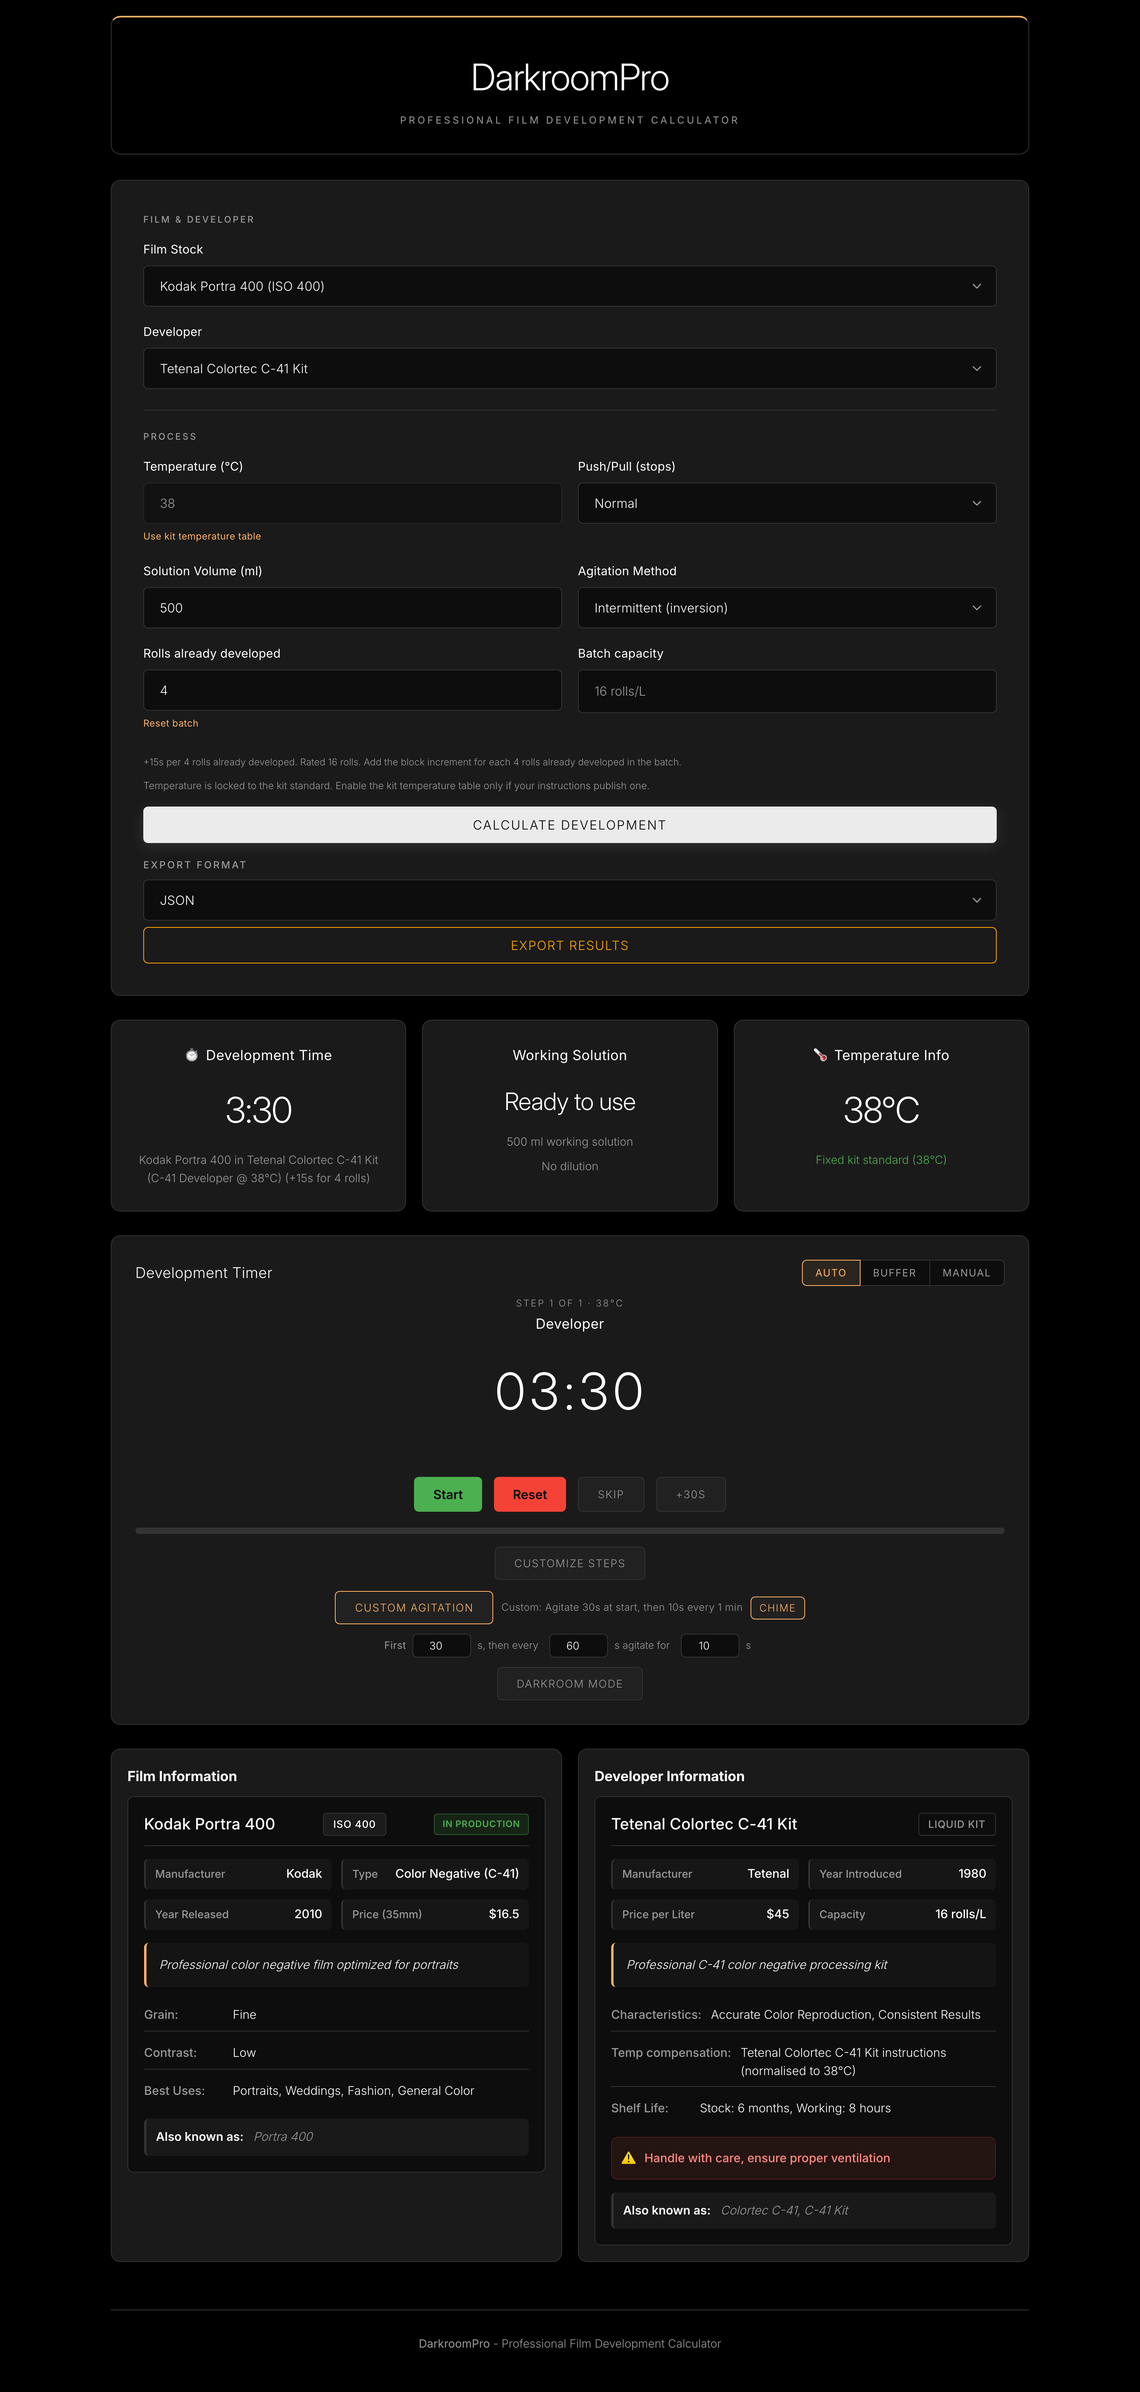
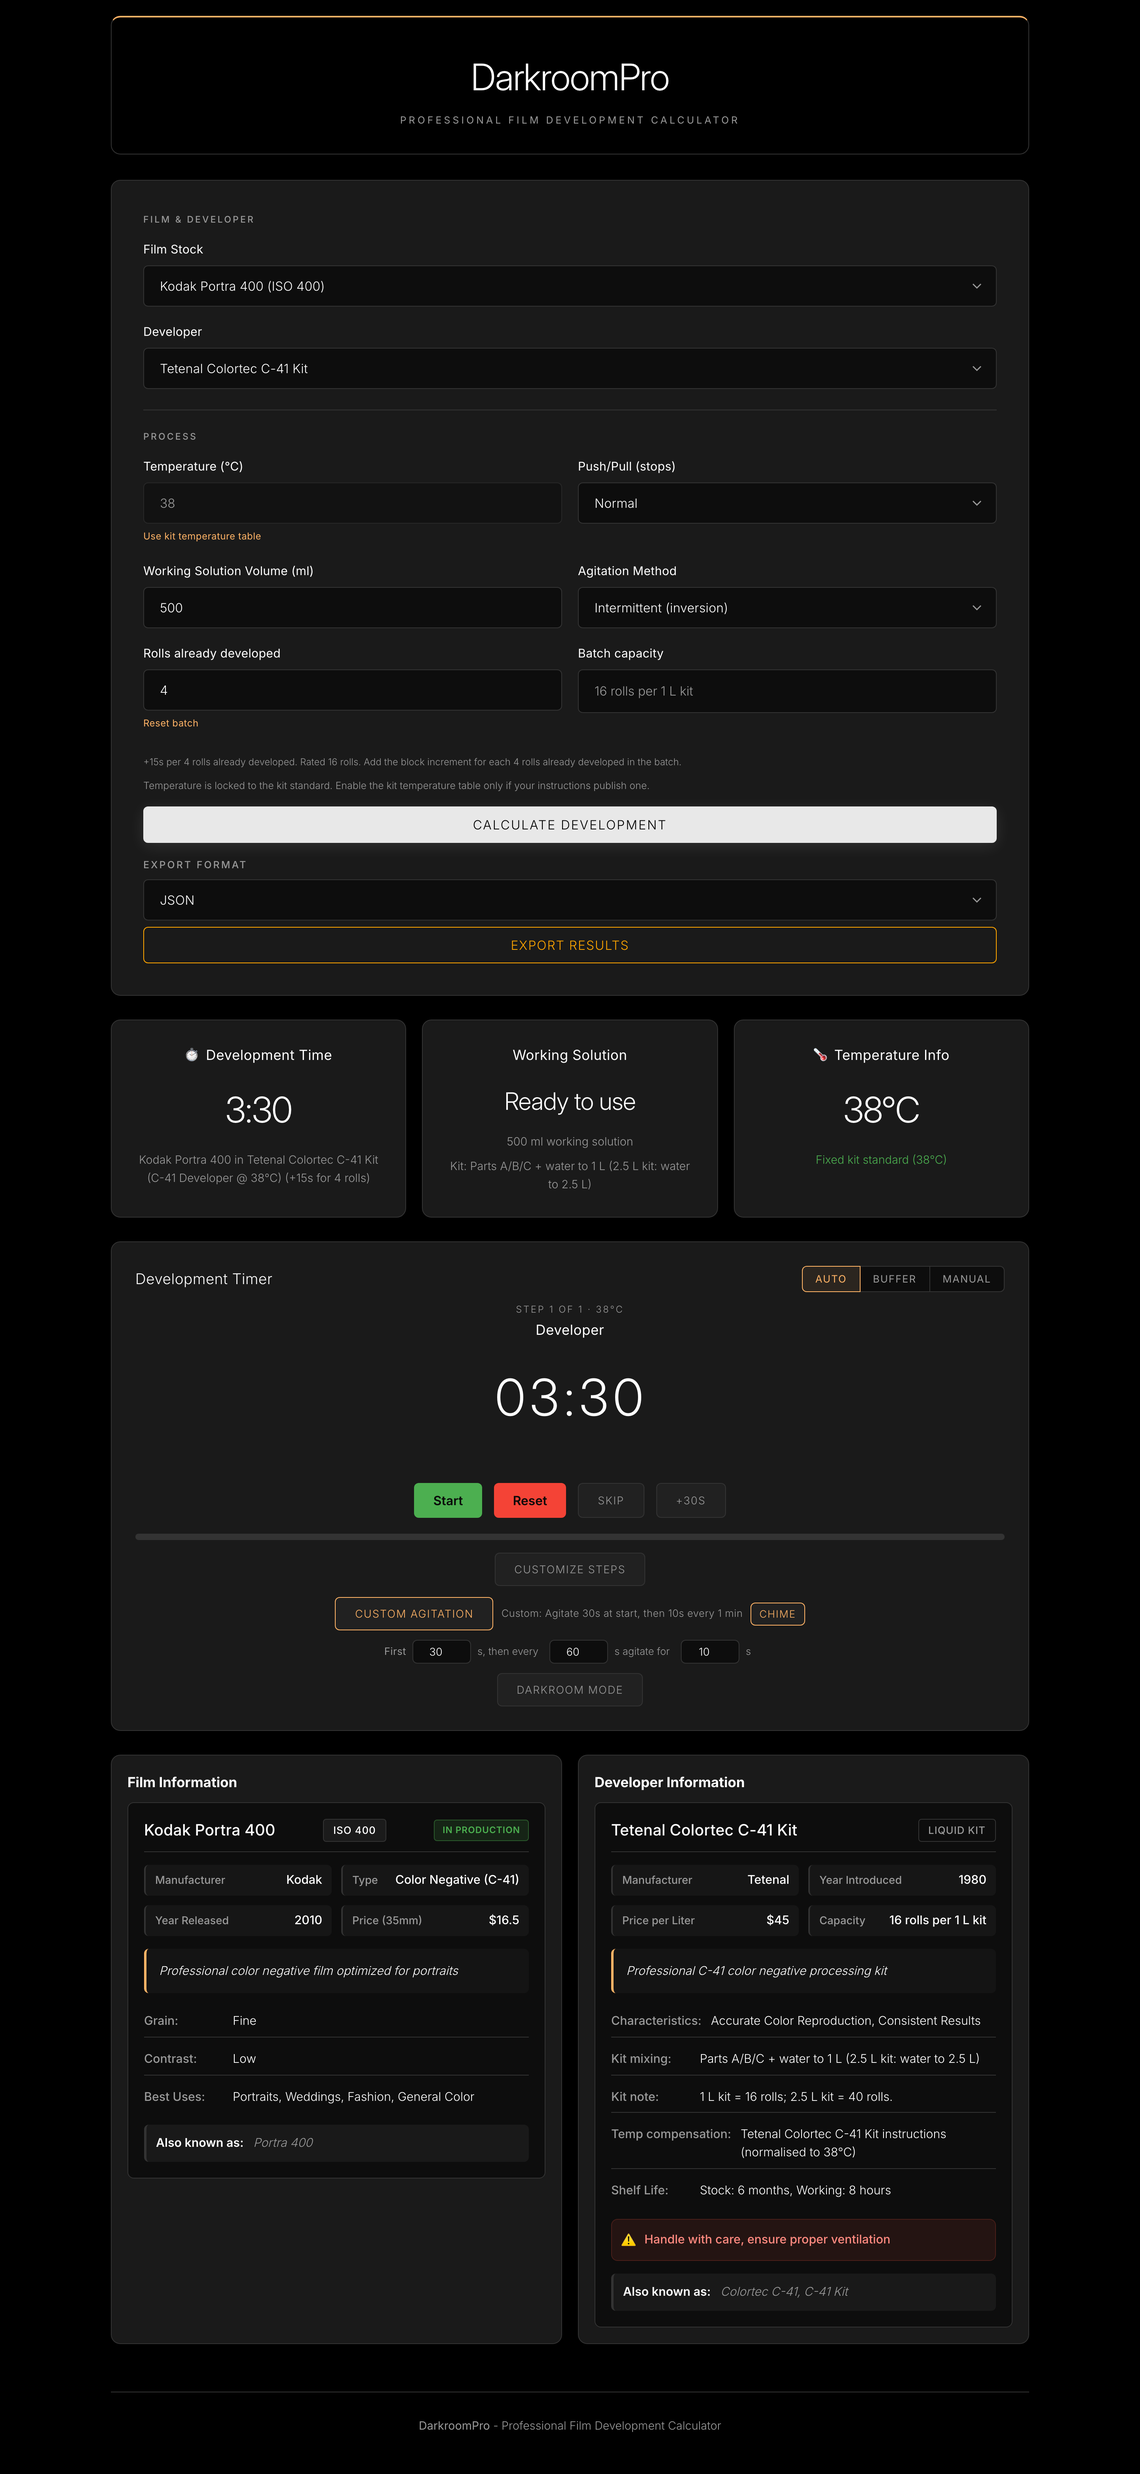
Release 1.3.2: kit mixing, capacity and agitation chime fixes
- Colour kits now show actual mixing and capacity (Bellini 500 ml + 500 ml = 1 L, 16 rolls)
- Flexicolor capacity corrected to 20 rolls per 2.5 L one-shot
- Working Solution Volume label clarifies tank volume vs kit batch
- Agitation ticks every 1.5s with a distinct two-tone stop cue; no overlapping sequences
- Kodak E-6 +2 push corrected to 11:30 rotary / 11:45 manual
- New screenshots and release notes

Changed region(s): [[0.0938, 0.0311, 0.9062, 0.9341], [0.5, 0.1868, 0.5938, 0.2802], [0.5625, 0.6227, 0.7188, 0.6539]]

diff --git a/calculator.js b/calculator.js
@@ -455,6 +455,10 @@ class DevelopmentCalculator {
                     return ratioValue(a) - ratioValue(b);
                 })
             : [];
+        const kit = developer.kit_mixing;
+        const capacityValue = kit
+            ? `${kit.capacity_rolls} rolls per ${kit.volume_ml / 1000} L kit`
+            : `${developer.capacity_rolls_per_liter || 'N/A'} rolls/L`;
         this.developerDetailsElement.innerHTML = `
             <div class="info-card-content">
                 <div class="info-header">
@@ -477,7 +481,7 @@ class DevelopmentCalculator {
                     </div>
                     <div class="info-item">
                         <span class="label">Capacity</span>
-                        <span class="value">${developer.capacity_rolls_per_liter || 'N/A'} rolls/L</span>
+                        <span class="value">${capacityValue}</span>
                     </div>
                 </div>
                 
@@ -490,6 +494,13 @@ class DevelopmentCalculator {
                         <span class="char-label">Characteristics:</span>
                         <span class="char-value">${cleanText(developer.characteristics) || 'N/A'}</span>
                     </div>
+                    ${kit ? `
+                        <div class="char-item">
+                            <span class="char-label">Kit mixing:</span>
+                            <span class="char-value">${kit.instructions}</span>
+                        </div>
+                        ${kit.note ? `<div class="char-item"><span class="char-label">Kit note:</span><span class="char-value">${kit.note}</span></div>` : ''}
+                    ` : ''}
                     ${dilutionList.length > 0 ? `
                         <div class="char-item">
                             <span class="char-label">Dilutions:</span>
@@ -785,8 +796,11 @@ class DevelopmentCalculator {
         this.rollsInput.max = String(rule ? Math.max(0, (rule.max_rolls || 30) - 1) : 0);
         this.rollsInput.value = String(this.rollsDeveloped);
         this.rollsReset.style.display = supported && this.rollsDeveloped > 0 ? 'inline-block' : 'none';
+        const kit = developer && developer.kit_mixing;
         if (rule && rule.rated_rolls && rule.max_rolls && rule.rated_rolls !== rule.max_rolls) {
             this.batchCapacity.textContent = `${rule.rated_rolls} rated, ${rule.max_rolls} max per L`;
+        } else if (kit) {
+            this.batchCapacity.textContent = `${kit.capacity_rolls} rolls per ${kit.volume_ml / 1000} L kit`;
         } else {
             this.batchCapacity.textContent = developer && developer.capacity_rolls_per_liter
                 ? `${developer.capacity_rolls_per_liter} rolls/L`
@@ -1248,8 +1262,12 @@ class DevelopmentCalculator {
             this.developerAmountElement.textContent = `${results.developerAmount} ml developer`;
             this.waterAmountElement.textContent = `${results.waterAmount} ml water`;
         } else {
+            const developerInfo = resolveDeveloper(this.developerSelect.value);
+            const kit = developerInfo && developerInfo.kit_mixing;
             this.developerAmountElement.textContent = `${results.developerAmount} ml working solution`;
-            this.waterAmountElement.textContent = 'No dilution';
+            this.waterAmountElement.textContent = kit
+                ? `Kit: ${kit.instructions}`
+                : 'No dilution';
         }
         
         // Add animation to updated cards

diff --git a/timer.js b/timer.js
@@ -304,7 +304,11 @@ class DevelopmentTimer {
                 this.agitationSummary.textContent = 'Rotary/continuous — no agitation cues';
             } else if (agitation) {
                 const prefix = this.customAgitation ? 'Custom: ' : 'Preset: ';
-                this.agitationSummary.textContent = `${prefix}${window.processSteps.describeAgitation(agitation)}`;
+                if (this.customAgitation && this.agitationDuration >= this.agitationEvery) {
+                    this.agitationSummary.textContent = 'Custom: continuous agitation (no gap between cues)';
+                } else {
+                    this.agitationSummary.textContent = `${prefix}${window.processSteps.describeAgitation(agitation)}`;
+                }
             } else {
                 this.agitationSummary.textContent = 'No agitation schedule for this step';
             }
@@ -438,14 +442,23 @@ class DevelopmentTimer {
 
         const duration = this.currentStepDuration();
         const elapsed = Math.max(0, duration - this.remaining);
+        const previousCue = this.activeCue;
         const nextCue = this.cues.find(cue => elapsed >= cue.startSeconds && elapsed < cue.startSeconds + cue.durationSeconds) || null;
 
-        if (nextCue && (!this.activeCue || nextCue.startSeconds !== this.activeCue.startSeconds)) {
+        if (nextCue && (!previousCue || nextCue.startSeconds !== previousCue.startSeconds)) {
+            const contiguous = previousCue &&
+                nextCue.startSeconds === previousCue.startSeconds + previousCue.durationSeconds;
             if (this.darkroom.chimes) {
+                if (previousCue && !contiguous) {
+                    this.playSound('agitationEnd');
+                }
                 this.startAgitationChime(nextCue.durationSeconds);
             }
-        } else if (!nextCue && this.activeCue) {
+        } else if (!nextCue && previousCue) {
             this.stopAgitationChime();
+            if (this.darkroom.chimes) {
+                this.playSound('agitationEnd');
+            }
         }
 
         this.activeCue = nextCue;
@@ -1178,6 +1191,7 @@ class DevelopmentTimer {
             warning: 1000,
             step: 950,
             lowstep: 700,
+            agitationEnd: 560,
             complete: 1200
         };
 
@@ -1186,7 +1200,8 @@ class DevelopmentTimer {
         this.stopAgitationChime();
         this.cancelScheduledSounds();
 
-        if (!this.beep(frequencies[type] || 800)) {
+        const gain = type === 'agitationEnd' ? 0.06 : 0.09;
+        if (!this.beep(frequencies[type] || 800, gain, type === 'agitationEnd' ? 0.16 : 0.18)) {
             console.log(`Timer ${type} sound`);
             return;
         }
@@ -1194,6 +1209,8 @@ class DevelopmentTimer {
 
         if (type === 'step') {
             this.scheduleBeep(frequencies.lowstep, 220);
+        } else if (type === 'agitationEnd') {
+            this.scheduleBeep(420, 180, 0.055, 0.16);
         } else if (type === 'complete') {
             this.scheduleBeep(frequencies.warning, 300);
             this.scheduleBeep(frequencies.warning, 600);
@@ -1248,7 +1265,7 @@ class DevelopmentTimer {
 
         const seq = this.agitationSeq;
         const durationMs = durationSeconds * 1000;
-        const interval = 2500;
+        const interval = 1500;
         const firstDelay = Date.now() - this.lastSoundAt < 700 ? 1200 : 700;
         let elapsed = 0;
 

diff --git a/index.html b/index.html
@@ -4,7 +4,7 @@
     <meta charset="UTF-8">
     <meta name="viewport" content="width=device-width, initial-scale=1.0">
     <link rel="preload" href="/fonts/InterVariable.woff2" as="font" type="font/woff2" crossorigin>
-    <title>DarkroomPro v1.3.1 - Professional Film Development Calculator</title>
+    <title>DarkroomPro v1.3.2 - Professional Film Development Calculator</title>
     <link rel="stylesheet" href="styles.css">
 </head>
 <body>
@@ -57,8 +57,8 @@
 
                     <div class="input-row">
                         <div class="input-group">
-                            <label for="volume">Solution Volume (ml)</label>
-                            <input type="number" id="volume" value="500" min="100" max="2000" step="50">
+                            <label for="volume">Working Solution Volume (ml)</label>
+                            <input type="number" id="volume" value="500" min="100" max="2000" step="50" title="Volume of mixed working solution needed for your tank — not the kit's total batch size">
                         </div>
 
                         <div class="input-group">

diff --git a/src-tauri/src/database.rs b/src-tauri/src/database.rs
@@ -149,6 +149,40 @@ mod tests {
     }
 
     #[test]
+    fn color_kits_have_mixing_data() {
+        let database = load_bundled_database();
+
+        for key in [
+            "bellini_c41_kit",
+            "cinestill_c41_kit",
+            "unicolor_c41_kit",
+            "tetenal_c41_kit",
+            "kodak_flexicolor_c41",
+            "kodak_e6_kit",
+            "tetenal_e6_kit",
+            "unicolor_e6_kit",
+        ] {
+            let developer = database.developers.get(key)
+                .unwrap_or_else(|| panic!("missing developer {}", key));
+            let kit = developer.kit_mixing.as_ref()
+                .unwrap_or_else(|| panic!("missing kit mixing for {}", key));
+            assert!(kit.get("volume_ml").and_then(|v| v.as_u64()).is_some_and(|v| v > 0), "{} bad volume", key);
+            assert!(kit.get("capacity_rolls").and_then(|v| v.as_u64()).is_some_and(|v| v > 0), "{} bad capacity", key);
+            assert!(
+                kit.get("instructions").and_then(|v| v.as_str()).is_some_and(|s| !s.is_empty()),
+                "{} missing mixing instructions",
+                key
+            );
+        }
+
+        let bellini = database.developers.get("bellini_c41_kit").unwrap();
+        let kit = bellini.kit_mixing.as_ref().unwrap();
+        assert_eq!(kit.get("volume_ml").and_then(|v| v.as_u64()), Some(1000));
+        assert_eq!(kit.get("capacity_rolls").and_then(|v| v.as_u64()), Some(16));
+        assert!(kit.get("instructions").and_then(|v| v.as_str()).unwrap().contains("500 ml concentrate"));
+    }
+
+    #[test]
     fn e6_agitation_adjustments_are_documented() {
         let database = load_bundled_database();
 

diff --git a/src-tauri/src/models.rs b/src-tauri/src/models.rs
@@ -71,6 +71,8 @@ pub struct Developer {
     pub roll_compensation: Option<serde_json::Value>,
     #[serde(default)]
     pub agitation_adjustment: Option<serde_json::Value>,
+    #[serde(default)]
+    pub kit_mixing: Option<serde_json::Value>,
 }
 
 #[derive(Debug, Clone, Serialize, Deserialize, Default)]

diff --git a/README.md b/README.md
@@ -16,12 +16,13 @@ A professional desktop application for calculating **precise film development pa
 
 *Darkroom mode's fullscreen focus display, toggled with <kbd>F</kbd> or the Auto Fullscreen option.*
 
-## 🆕 What's new in 1.3.1
+## 🆕 What's new in 1.3.2
 
-- **Adjustable B&W rotary compensation**: 0–35% (15% default), with guidance that 15–35% may be needed depending on film/developer and that pre-wetting or a diffusion enlarger can need less.
-- **E-6 method-specific first developer**: Kodak and Tetenal E-6 now apply the published manual/rotary difference (+15s manual, rotary time as published), including push/pull times.
-- **Clearer stock labels**: developer info and dilution selectors now say “Stock” instead of “1:0”.
-- Includes all 1.3.0 features: custom agitation, batch reuse compensation, colour temperature lock, UI refresh and darkroom-mode behaviour.
+- **Kit mixing and capacities**: every colour kit now shows its actual kit mixing and capacity, including Bellini C41-RA (500 ml concentrate + 500 ml water = 1 L, 16 rolls) and Kodak Flexicolor (2.5 L, 20 rolls one-shot). The dilution card also shows the kit mixing instead of “No dilution”.
+- **Clearer volume label**: “Working Solution Volume (ml)” makes it explicit that this is the amount needed for your tank, not the kit’s batch size.
+- **Better agitation chimes**: ticks now repeat every 1.5s, and a distinct two-tone stop cue plays when the agitation window ends. The scheduler ensures only one sequence plays at a time.
+- **Kodak E-6 +2 push corrected** to 11:30 rotary / 11:45 manual (+5:30 per Kodak Z-119).
+- Includes 1.3.1’s adjustable B&W rotary compensation and E-6 method-specific timing.
 
 See [RELEASE_NOTES.md](RELEASE_NOTES.md) for the full changelog.
 
@@ -97,29 +98,29 @@ See [RELEASE_NOTES.md](RELEASE_NOTES.md) for the full changelog.
 
 > **Note:** Release builds are unsigned. On macOS, right-click the app and choose **Open** the first time you launch it; on Windows, SmartScreen may ask you to confirm.
 
-> Filenames below show the 1.3.1 release; if a newer version is out, grab the matching file from [Releases](../../releases).
+> Filenames below show the 1.3.2 release; if a newer version is out, grab the matching file from [Releases](../../releases).
 
 #### **macOS**
-1. Download `DarkroomPro_1.3.1_universal.dmg` from [Releases](../../releases)
+1. Download `DarkroomPro_1.3.2_universal.dmg` from [Releases](../../releases)
 2. Open the DMG file
 3. Drag DarkroomPro to Applications folder
 4. Launch from Applications or Launchpad
 
 #### **Windows**
-1. Download `DarkroomPro_1.3.1_x64_en-US.msi` from [Releases](../../releases)
+1. Download `DarkroomPro_1.3.2_x64_en-US.msi` from [Releases](../../releases)
 2. Run the installer
 3. Follow installation wizard
 4. Launch from Start Menu or Desktop
 
 #### **Linux**
-1. Download `DarkroomPro_1.3.1_amd64.deb` (Debian/Ubuntu), `DarkroomPro-1.3.1-1.x86_64.rpm` (RedHat/Fedora), or `DarkroomPro_1.3.1_amd64.AppImage` (portable)
+1. Download `DarkroomPro_1.3.2_amd64.deb` (Debian/Ubuntu), `DarkroomPro-1.3.2-1.x86_64.rpm` (RedHat/Fedora), or `DarkroomPro_1.3.2_amd64.AppImage` (portable)
 2. Install using your package manager:
    ```bash
    # Debian/Ubuntu
-   sudo dpkg -i DarkroomPro_1.3.1_amd64.deb
+   sudo dpkg -i DarkroomPro_1.3.2_amd64.deb
    
    # RedHat/Fedora
-   sudo rpm -i DarkroomPro-1.3.1-1.x86_64.rpm
+   sudo rpm -i DarkroomPro-1.3.2-1.x86_64.rpm
    ```
 3. Launch from applications menu
 
@@ -129,7 +130,7 @@ See [RELEASE_NOTES.md](RELEASE_NOTES.md) for the full changelog.
 2. **Choose your developer** (filtered based on film compatibility)
 3. **Set your temperature** (B&W: 15-30°C with automatic compensation; colour kits are locked to their standard temperature — Tetenal 38°C, Unicolor 38.9°C, CineStill 39°C — with an opt-in temperature table only where the kit instructions publish one)
 4. **Adjust push/pull** if needed (+3 push to -2 pull; unsupported colour combinations are marked “not published”)
-5. **Set solution volume** (100-2000ml) and **agitation method** (intermittent or rotary; adjust the rotary % if needed)
+5. **Set the working-solution volume** (100-2000ml; the amount for your tank, not the kit batch) and **agitation method** (intermittent or rotary; adjust the rotary % if needed)
 6. **Calculate** and get precise development time and dilution
 7. **Start the timer** and develop with confidence!
 8. **Export results** for your records

diff --git a/RELEASE_NOTES.md b/RELEASE_NOTES.md
@@ -1,3 +1,31 @@
+# DarkroomPro v1.3.2
+
+**Kit mixing, capacity and agitation chime fixes**
+
+## Changes
+
+- **Colour kit mixing is now explicit.** Every colour kit shows its actual mixing instructions and kit capacity, and the result card shows the kit mixing instead of “No dilution”. Bellini C41-RA now reads **500 ml concentrate + 500 ml water = 1 L, 16 rolls**; the tank volume is clearly labelled “Working Solution Volume”, so it is not confused with the kit batch size.
+- **Capacity corrections:** Kodak Flexicolor is listed at 20 rolls per 2.5 L kit (about 8 rolls/L one-shot), Bellini at 16 rolls per 1 L kit, Tetenal C-41 at 16 rolls/L (40 rolls per 2.5 L), CineStill at 24 max (8 rated), Unicolor at 8 rolls/L, Kodak E-6 at 20 rolls per 5 L batch (up to 50 with extended times), Tetenal E-6 at 30 rolls per 2.5 L, Unicolor E-6 at 8 rolls/L.
+- **Agitation chimes:** the repeating tick is now every 1.5s during an agitation window, and a distinct two-tone stop cue plays when the window ends. Only one sound sequence plays at a time; contiguous windows do not trigger an overlapping stop/start pair.
+- **Kodak E-6 +2 push corrected** to 11:30 rotary / 11:45 manual, following the +5:30 correction in Kodak Z-119.
+- Includes 1.3.1’s adjustable B&W rotary compensation and E-6 method-specific first-developer timing.
+
+## Verification
+
+- `cargo test`: 18 tests passing, including colour-kit mixing metadata.
+- `npm run test:steps`: passing.
+- Browser checks: Bellini shows “500 ml concentrate + 500 ml water = 1 L” and “16 rolls per 1 L kit”; ticks at 1.5s; stop cue plays at the end of the window; Kodak E-6 +2 push is 11:30 rotary / 11:45 manual.
+
+## Downloads
+
+- **macOS**: `.dmg` (universal)
+- **Windows**: `.msi` installer
+- **Linux**: `.deb`, `.rpm` or `.AppImage`
+
+> Release builds are unsigned. On macOS, right-click the app and choose **Open** the first time; on Windows, SmartScreen may ask you to confirm.
+
+---
+
 # DarkroomPro v1.3.1
 
 **Adjustable rotary compensation and E-6 method-specific timing**
